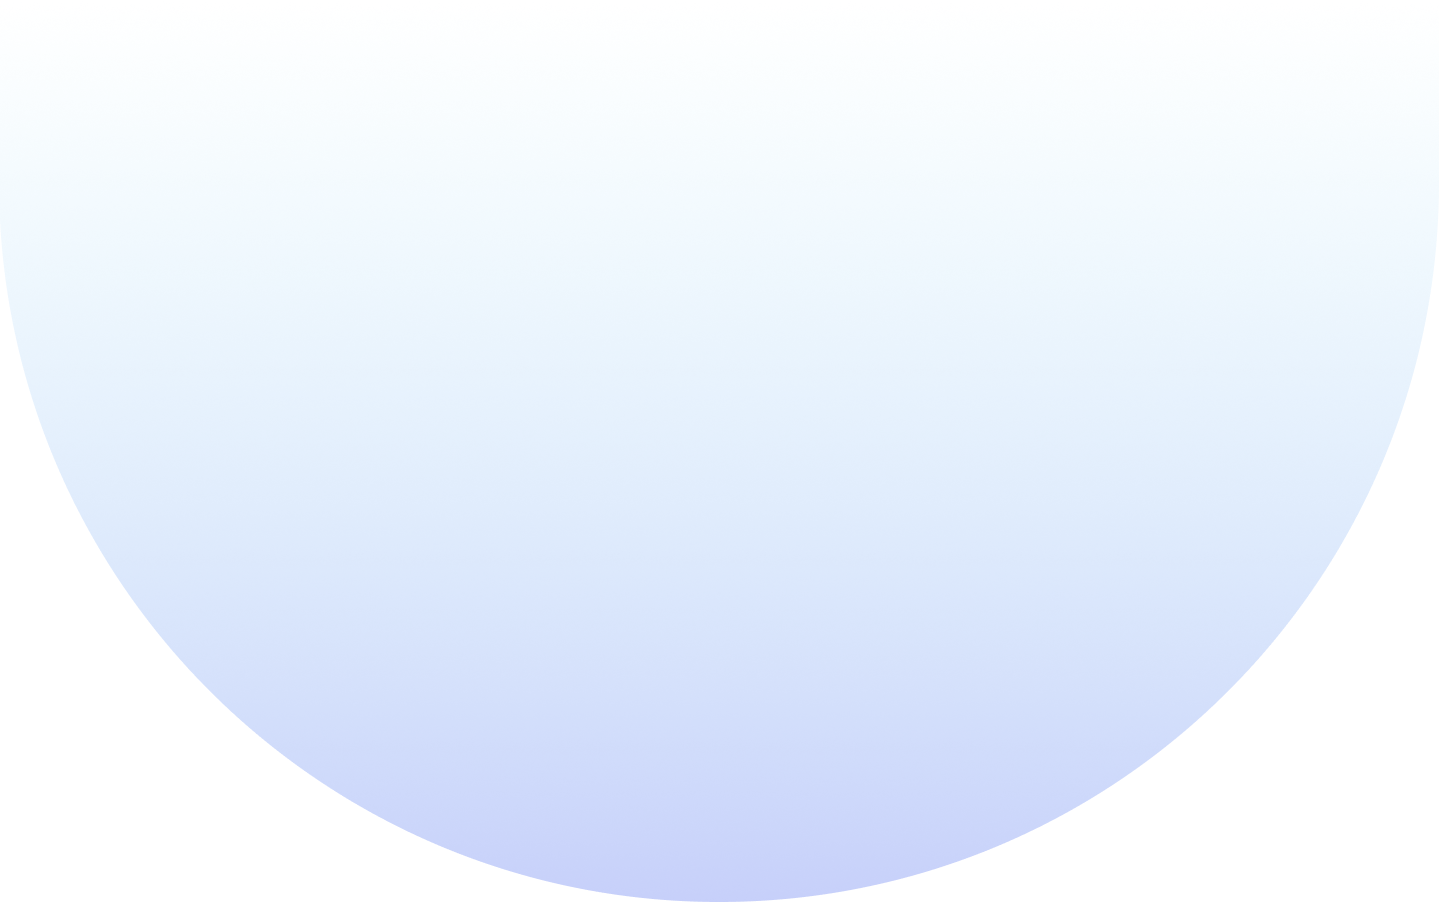
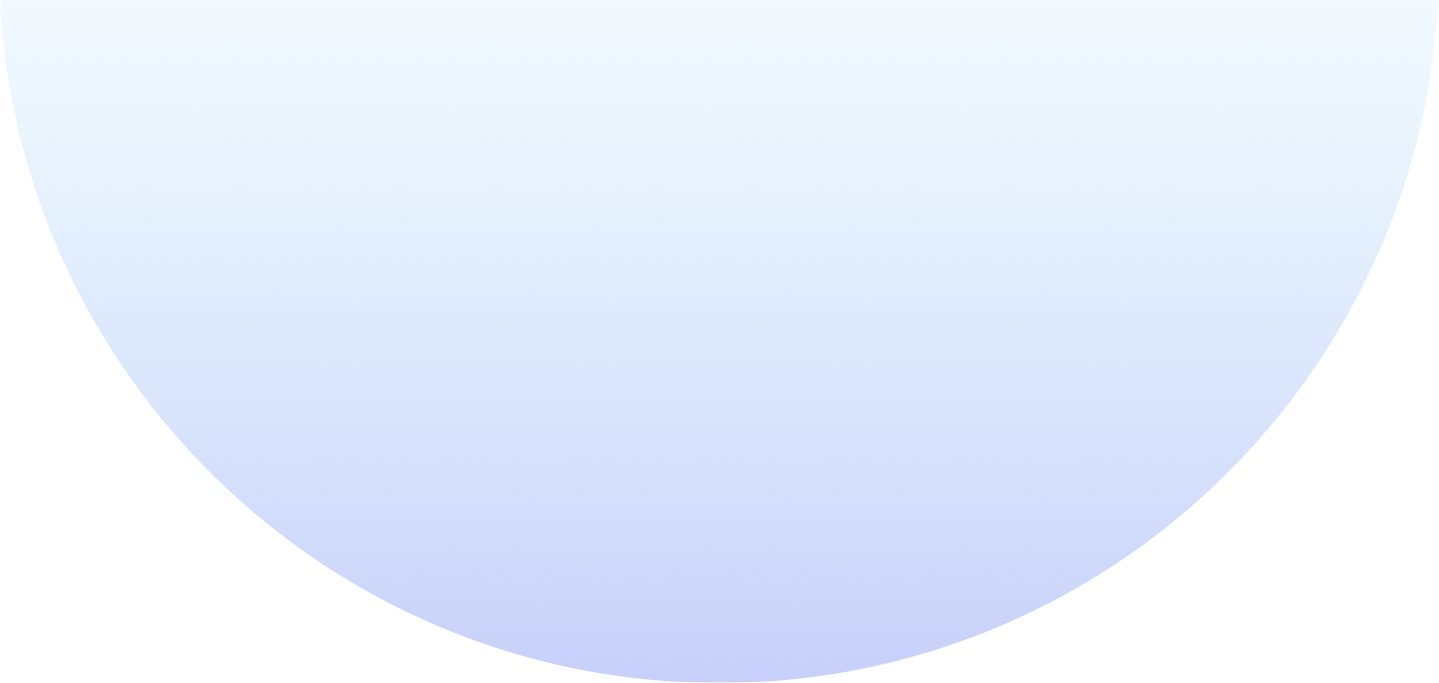
update landing page

diff --git a/public/css/landing.css b/public/css/landing.css
@@ -19,10 +19,10 @@ a{
     padding-top: 157px;
 }
 
-.section-1{
+body{
     background-image: url(../img/big-rectangle.png);
-    height: 902px;
-    background-size: cover;
+    background-size:100%;
+    background-repeat: no-repeat;
 }
 
 p.title {
@@ -52,4 +52,61 @@ p.desc{
     height: 410px;
     object-fit: cover;
     border-radius: 20px;
+}
+
+.logo-title {
+    margin-top: 20px;
+    font-weight: 400;
+    font-size: 20px;
+    line-height: 26px;
+    color: rgba(128, 128, 128, 1);
+}
+
+.information{
+    margin-top: 200px;
+}
+
+.greet-information{
+    font-weight: 500;
+    font-size: 19.4px;
+    line-height: 29.1px;
+    letter-spacing: 5px;
+    color: rgba(67, 97, 238, 1);
+}
+
+.title-information{
+    font-weight: 600;
+    font-size: 39.8px;
+    line-height: 47px;
+}
+
+.desc-information{
+    font-weight: 400;
+    font-size: 16px;
+    line-height: 26px;
+    color: rgba(128, 128, 128, 1);
+}
+
+.information-card{
+    width: 400px;
+    height: 131px;
+    border-radius: 30px;
+    padding: 10px;
+}
+.information-card .card-title{
+    font-weight: 500;
+    font-size: 19.4px;
+    line-height: 29.1px;
+    color: rgba(67, 97, 238, 1);
+}
+
+.information-card .card-text {
+    font-weight: 400;
+    font-size: 16px;
+    line-height: 26px;
+    color: rgba(128, 128, 128, 1);
+}
+
+.image-warga{
+    margin-top: 100px;
 }

diff --git a/resources/views/welcome.blade.php b/resources/views/welcome.blade.php
@@ -8,66 +8,186 @@
 @endpush
 
 @section('main')
-    <div class="section-1">
-        <div class="container container-1">
-            <div class="row">
-                {{-- title --}}
-                <div class="col-md-6">
-                    <p class="text-start title">
-                        RW 2 - INFORMATION SYSTEM <br>
-                        PISANG KIPAS STEET NO. 7, MALANG CITY, INDONESIA
-                    </p>
-                    <p class="text-start title-2">
-                        Navigate RW Life <br>
-                        with Ease
-                    </p>
-                    <p class="text-start desc">
-                        From grassroots initiatives to seamless communication, <br>
-                        we're here to elevate your neighborhood experience with <br>
-                        SIMWARGA we want #RVVolution
-                    </p>
-                </div>
-                {{-- corusel img --}}
-                <div class="col-md-6">
-                    <div id="carouselExampleAutoplaying" class="carousel slide" data-bs-ride="carousel">
-                        <div class="carousel-indicators">
-                            <button type="button" data-bs-target="#carouselExampleAutoplaying" data-bs-slide-to="0"
-                                class="active" aria-current="true" aria-label="Slide 1"></button>
-                            <button type="button" data-bs-target="#carouselExampleAutoplaying" data-bs-slide-to="1"
-                                aria-label="Slide 2"></button>
-                            <button type="button" data-bs-target="#carouselExampleAutoplaying" data-bs-slide-to="2"
-                                aria-label="Slide 3"></button>
-                        </div>
-                        <div class="carousel-inner">
-                            <div class="carousel-item active">
-                                <img src="{{ asset('img/village.png') }}" class="d-block corusel-img" alt="...">
-                            </div>
-                            <div class="carousel-item">
-                                <img src="{{ asset('img/ona.jpeg') }}" class="d-block corusel-img" alt="...">
-                            </div>
-                            <div class="carousel-item">
-                                <img src="{{ asset('img/me.jpeg') }}" class="d-block corusel-img" alt="...">
-                            </div>
-                        </div>
-                        <button class="carousel-control-prev" type="button" data-bs-target="#carouselExampleAutoplaying"
-                            data-bs-slide="prev">
-                            <span class="carousel-control-prev-icon" aria-hidden="true"></span>
-                            <span class="visually-hidden">Previous</span>
-                        </button>
-                        <button class="carousel-control-next" type="button" data-bs-target="#carouselExampleAutoplaying"
-                            data-bs-slide="next">
-                            <span class="carousel-control-next-icon" aria-hidden="true"></span>
-                            <span class="visually-hidden">Next</span>
-                        </button>
+    <div class="container container-1">
+        <div class="row">
+            {{-- title --}}
+            <div class="col-md-6">
+                <p class="text-start title">
+                    RW 2 - INFORMATION SYSTEM <br>
+                    PISANG KIPAS STEET NO. 7, MALANG CITY, INDONESIA
+                </p>
+                <p class="text-start title-2">
+                    Navigate RW Life <br>
+                    with Ease
+                </p>
+                <p class="text-start desc">
+                    From grassroots initiatives to seamless communication, <br>
+                    we're here to elevate your neighborhood experience with <br>
+                    SIMWARGA we want #RVVolution
+                </p>
+            </div>
+            {{-- corusel img --}}
+            <div class="col-md-6">
+                <div id="carouselExampleAutoplaying" class="carousel slide" data-bs-ride="carousel">
+                    <div class="carousel-indicators">
+                        <button type="button" data-bs-target="#carouselExampleAutoplaying" data-bs-slide-to="0"
+                            class="active" aria-current="true" aria-label="Slide 1"></button>
+                        <button type="button" data-bs-target="#carouselExampleAutoplaying" data-bs-slide-to="1"
+                            aria-label="Slide 2"></button>
+                        <button type="button" data-bs-target="#carouselExampleAutoplaying" data-bs-slide-to="2"
+                            aria-label="Slide 3"></button>
                     </div>
+                    <div class="carousel-inner">
+                        <div class="carousel-item active">
+                            <img src="{{ asset('img/village.png') }}" class="d-block corusel-img" alt="...">
+                        </div>
+                        <div class="carousel-item">
+                            <img src="{{ asset('img/bapakmu.jpg') }}" class="d-block corusel-img" alt="...">
+                        </div>
+                        <div class="carousel-item">
+                            <img src="{{ asset('img/me.jpeg') }}" class="d-block corusel-img" alt="...">
+                        </div>
+                    </div>
+                    <button class="carousel-control-prev" type="button" data-bs-target="#carouselExampleAutoplaying"
+                        data-bs-slide="prev">
+                        <span class="carousel-control-prev-icon" aria-hidden="true"></span>
+                        <span class="visually-hidden">Previous</span>
+                    </button>
+                    <button class="carousel-control-next" type="button" data-bs-target="#carouselExampleAutoplaying"
+                        data-bs-slide="next">
+                        <span class="carousel-control-next-icon" aria-hidden="true"></span>
+                        <span class="visually-hidden">Next</span>
+                    </button>
+                </div>
 
+            </div>
+        </div>
+        {{-- search --}}
+        <div class="input-group mt-5">
+            <input type="text" class="form-control" placeholder="Recipient's username" aria-label="Recipient's username"
+                aria-describedby="button-addon2">
+            <button class="btn btn-outline-secondary" type="button" id="button-addon2">Button</button>
+        </div>
+        {{-- capsule --}}
+        <div class="row mt-5 justify-content-evenly">
+            <div class="col-md-4">
+                <img src="{{ asset('img/citizengroup.png') }}" class="rounded-pill" alt="...">
+            </div>
+            <div class="col-md-4">
+                <img src="{{ asset('img/housegroup.png') }}" class="rounded-pill" alt="...">
+            </div>
+        </div>
+
+    </div>
+    <div class="container-fluid">
+        <div class="row justify-content-evenly row-sec2">
+            <div class="col-md-2 text-center">
+                <a href="">
+                    <img src="{{ asset('img/charity.png') }}" alt="">
+                </a>
+                <p class="logo-title">Social Charity</p>
+            </div>
+            <div class="col-md-2 text-center">
+                <a href="">
+                    <img src="{{ asset('img/people.png') }}" alt="">
+                </a>
+                <p class="logo-title">Data Digitalization</p>
+            </div>
+            <div class="col-md-2 text-center">
+                <a href="">
+                    <img src="{{ asset('img/doc.png') }}" alt="">
+                </a>
+                <p class="logo-title">Letter and Digital Siganture</p>
+            </div>
+            <div class="col-md-2 text-center">
+                <a href="">
+                    <img src="{{ asset('img/info.png') }}" alt="">
+                </a>
+                <p class="logo-title">Information Hub</p>
+            </div>
+            <div class="col-md-2 text-center">
+                <a href="">
+                    <img src="{{ asset('img/brain.png') }}" alt="">
+                </a>
+                <p class="logo-title">Problem Report</p>
+            </div>
+        </div>
+    </div>
+
+    <div class="container information">
+        <div class="row">
+            <div class="col-md-6">
+                <p class="greet-information">
+                    WHO ARE WE
+                </p>
+                <p class="title-information">
+                    Connecting <br>
+                    Neighborhood, <br>
+                    Connecting Lives <br>
+                </p>
+                <p class="desc-information">
+                    We are the heart of your community, committed to promoting <br>
+                    harmony, progress, and well-being. Our objective is to <br>
+                    empower residents, create initiatives, and build a vibrant and <br>
+                    united community. We work hard to make our RW a place <br>
+                    where every voice is heard, every need is answered, and every <br> 
+                    dream is achievable through cooperation, innovation, and <br>
+                    steadfast devotion.
+                </p>
+
+                {{-- card --}}
+                
+                <a href="">
+                    <div class="card information-card mt-5">
+                        <div class="row">
+                            <div class="col-md-2 mt-4 ms-4">
+                                <img src="{{ asset('img/hub.png')}}" alt="" width="40px">
+                            </div>
+                            <div class="col-md-8">
+                                <p class="card-title mt-2">
+                                    Information Hub
+                                </p>
+                                <p class="card-text">
+                                    Details on community programs, <br> 
+                                    events, and initiatives, and bansos
+                                </p>
+                            </div>
+                        </div>
+                    </div>
+                </a>
+                <a href="">
+                    <div class="card information-card mt-5">
+                        <div class="row">
+                            <div class="col-md-2 mt-4 ms-4">
+                                <img src="{{ asset('img/citizendigital.png')}}" alt="" width="40px">
+                            </div>
+                            <div class="col-md-8">
+                                <p class="card-title mt-2">
+                                    Citiezen Data Digitalization
+                                </p>
+                                <p class="card-text">
+                                    Securely manage citizen data for <br>
+                                    efficient communication
+                                </p>
+                            </div>
+                        </div>
+                    </div>
+                </a>
+            </div>
+
+            {{-- image --}}
+
+            <div class="col-md-6">
+                <div class="row image-warga">
+                    <div class="col-md-6">
+                        <img src="{{ asset('img/warga1.png') }}" alt="">
+                    </div>
+                    <div class="col-md-6">
+                        <img src="{{ asset('img/warga2.png') }}" alt="">
+                        <img src="{{ asset('img/warga3.png') }}" alt="">
+                    </div>
                 </div>
             </div>
-            {{-- search --}}
-            <div class="input-group mt-5">
-                <input type="text" class="form-control" placeholder="Recipient's username" aria-label="Recipient's username" aria-describedby="button-addon2">
-                <button class="btn btn-outline-secondary" type="button" id="button-addon2">Button</button>
-              </div>
         </div>
     </div>
 
